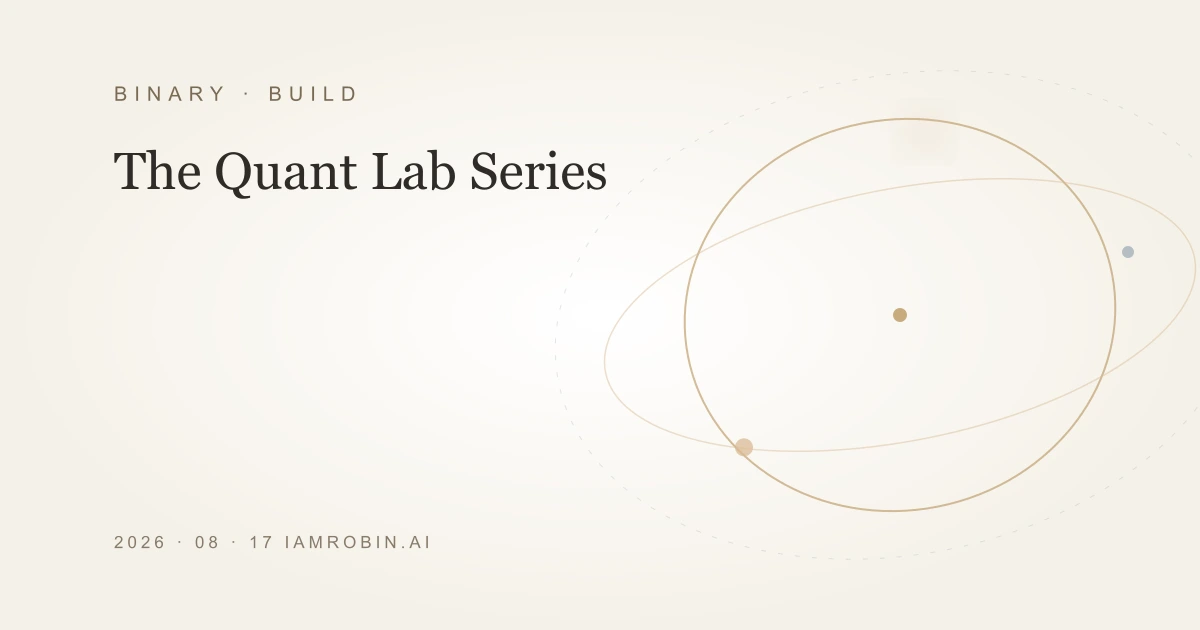
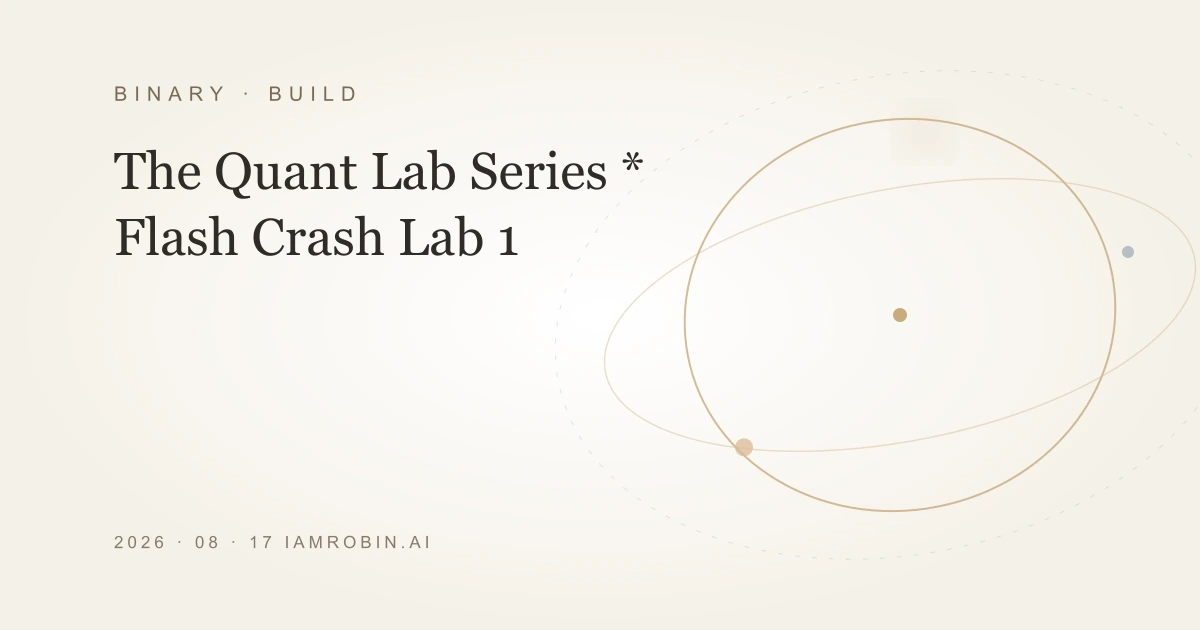
Organize Binary Blog lanes and automate pipeline visibility

Changed region(s): [[0.0925, 0.3317, 0.4317, 0.4222], [0.5242, 0.2413, 0.555, 0.2714]]

diff --git a/src/styles/zen.css b/src/styles/zen.css
@@ -904,6 +904,86 @@ body[data-path="/portfolio/"] .page-lead h1 {
   text-transform: uppercase;
 }
 
+.binary-library__heading,
+.binary-lane__heading {
+  display: grid;
+  grid-template-columns: 3.1rem minmax(0, 1fr);
+  gap: 0.16rem 0;
+  align-items: baseline;
+  padding-block: 1rem;
+  border-bottom: 1px solid var(--line);
+}
+.binary-library__heading > span,
+.binary-lane__heading > span {
+  grid-row: 1 / 3;
+  color: var(--muted);
+  font-size: 0.54rem;
+  letter-spacing: 0.12em;
+}
+.binary-library__heading h2,
+.binary-lane__heading h3 {
+  margin: 0;
+  color: var(--ink);
+  font-family: var(--serif);
+  font-size: clamp(1.05rem, 3.7vw, 1.42rem);
+  font-weight: 400;
+}
+.binary-library__heading em,
+.binary-lane__heading em {
+  color: var(--muted);
+  font-family: var(--serif);
+  font-size: 0.74rem;
+  font-weight: 400;
+}
+.binary-library__heading {
+  padding-block: 0 1rem;
+}
+.binary-library__heading > span {
+  color: var(--gold-dark);
+}
+.binary-lane {
+  border-bottom: 1px solid var(--line);
+}
+.identity-directory .binary-present,
+.identity-directory .binary-pipeline .ouroboros-shelf__list {
+  padding-left: 3.1rem;
+}
+.binary-pipeline {
+  margin-left: 3.1rem;
+  border-top: 1px solid rgba(83, 74, 65, 0.08);
+}
+.binary-pipeline > summary {
+  display: grid;
+  grid-template-columns: auto 1fr auto;
+  gap: 0.65rem;
+  align-items: center;
+  min-height: 2.8rem;
+  color: var(--gold-dark);
+  cursor: pointer;
+  list-style: none;
+}
+.binary-pipeline > summary::-webkit-details-marker { display: none; }
+.binary-pipeline > summary:focus-visible { outline: 1px solid var(--gold); outline-offset: 0.2rem; }
+.binary-pipeline > summary > span:first-child {
+  font-family: var(--serif);
+  font-size: 0.82rem;
+}
+.binary-pipeline > summary small {
+  color: var(--muted);
+  font-size: 0.52rem;
+  letter-spacing: 0.08em;
+  text-transform: uppercase;
+}
+.binary-pipeline__toggle {
+  font-family: var(--serif);
+  font-size: 1.05rem;
+  transition: transform 220ms ease;
+}
+.binary-pipeline[open] .binary-pipeline__toggle { transform: rotate(45deg); }
+.identity-directory .binary-pipeline .ouroboros-shelf__list {
+  padding: 0 0 0.8rem;
+}
+
 .diary-library {
   width: min(100%, 38rem);
   margin-bottom: clamp(3rem, 8vw, 5rem);

diff --git a/src/lib/blogPresentation.ts b/src/lib/blogPresentation.ts
@@ -1,0 +1,38 @@
+export type BlogLanguage = 'en' | 'zh-Hans' | 'zh-Hant' | 'ja';
+export type BlogArchiveStatus = 'PRESENT' | 'PIPELINE';
+
+const titleOverrides: Record<string, Record<BlogLanguage, string>> = {
+  '2026-08-17': {
+    en: 'The Quant Lab Series * Flash Crash Lab 1',
+    'zh-Hans': '量化实验室系列 * 闪崩实验室 1',
+    'zh-Hant': '量化實驗室系列 * 閃崩實驗室 1',
+    ja: 'Quant Labシリーズ * フラッシュクラッシュ・ラボ 1',
+  },
+  '2026-08-24': {
+    en: 'The Quant Lab Series * Flash Crash Lab 2',
+    'zh-Hans': '量化实验室系列 * 闪崩实验室 2',
+    'zh-Hant': '量化實驗室系列 * 閃崩實驗室 2',
+    ja: 'Quant Labシリーズ * フラッシュクラッシュ・ラボ 2',
+  },
+};
+
+function isoDate(date: Date) {
+  return date.toISOString().slice(0, 10);
+}
+
+export function currentHongKongDate(now = new Date()) {
+  return new Intl.DateTimeFormat('en-CA', {
+    timeZone: 'Asia/Hong_Kong',
+    year: 'numeric',
+    month: '2-digit',
+    day: '2-digit',
+  }).format(now);
+}
+
+export function blogArchiveStatus(date: Date, asOf = currentHongKongDate()): BlogArchiveStatus {
+  return isoDate(date) <= asOf ? 'PRESENT' : 'PIPELINE';
+}
+
+export function blogTitle(date: Date, language: BlogLanguage, fallback: string) {
+  return titleOverrides[isoDate(date)]?.[language] ?? fallback;
+}

diff --git a/src/styles/global.css b/src/styles/global.css
@@ -262,10 +262,10 @@ a {
   top: calc(100% + 0.35rem);
   right: -0.7rem;
   display: grid;
-  grid-template-columns: repeat(2, minmax(7.7rem, 1fr));
-  gap: 0.18rem;
-  width: min(20rem, calc(100vw - 2rem));
-  padding: 0.7rem;
+  grid-template-columns: minmax(0, 1fr);
+  gap: 0;
+  width: min(13rem, calc(100vw - 2rem));
+  padding: 0.5rem;
   visibility: hidden;
   background: rgba(251, 248, 242, 0.98);
   border: 1px solid rgba(117, 91, 46, 0.18);
@@ -289,10 +289,10 @@ a {
 .nav-list .doors-menu a {
   display: grid;
   grid-template-columns: 1.4rem minmax(0, 1fr);
-  gap: 0.45rem;
+  gap: 0.4rem;
   align-items: center;
-  min-height: 2.75rem;
-  padding: 0.55rem 0.6rem;
+  min-height: 1.85rem;
+  padding: 0.28rem 0.48rem;
   border-radius: 0.48rem;
   white-space: normal;
 }
@@ -1286,8 +1286,8 @@ a {
     position: fixed;
     top: 5.2rem;
     right: 1rem;
-    left: 1rem;
-    width: auto;
+    left: auto;
+    width: min(13rem, calc(100vw - 2rem));
     max-height: calc(100svh - 6.2rem);
     overflow-y: auto;
   }

diff --git a/src/content.config.ts b/src/content.config.ts
@@ -105,6 +105,7 @@ const blogFields = {
   section: z.literal('Ouroboros'),
   series: z.literal('Blog'),
   lane: z.enum(['BUILD', 'INVEST', 'JOY']),
+  archiveStatus: z.enum(['PRESENT', 'PIPELINE']).optional(),
   tags: z.array(z.string()),
   keywords: z.array(z.string()),
   categories: z.array(z.string()),
